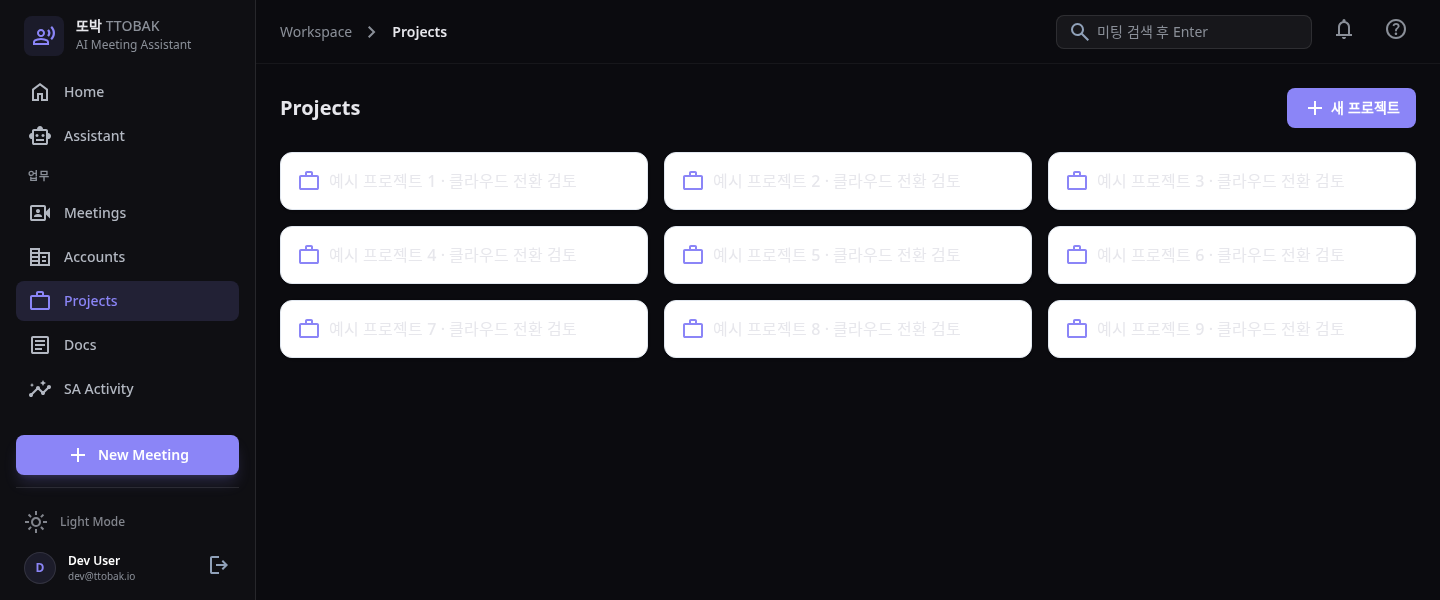
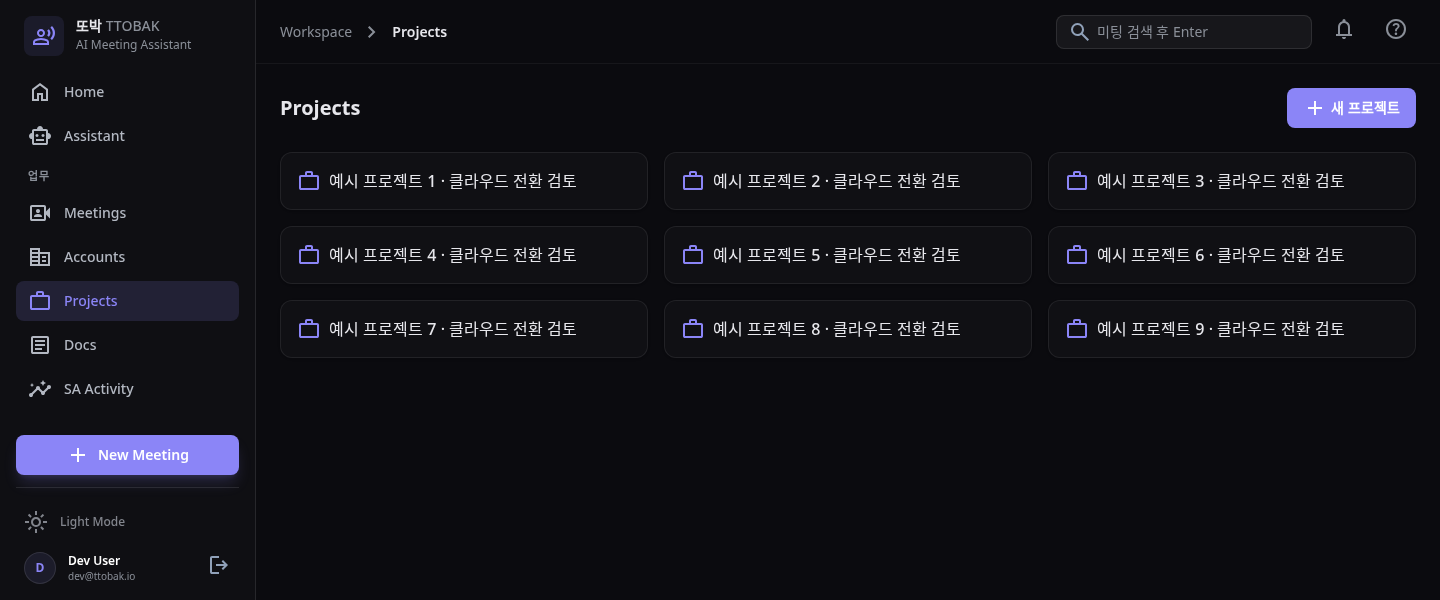
fix(ui): restore readable dark surfaces during design review

Changed region(s): [[0.1875, 0.24, 1.0, 0.6]]

diff --git a/frontend/src/app/globals.css b/frontend/src/app/globals.css
@@ -183,6 +183,12 @@ body {
   border: 1px solid var(--border-subtle);
 }
 
+/* Register the compatibility surface so Tailwind also emits dark:glass-panel. */
+@utility glass-panel {
+  background: var(--surface-lowest);
+  border: 1px solid var(--border-subtle);
+}
+
 /* Legacy glow utilities — intentionally no-op (neon removed) */
 .glow-primary,
 .glow-accent,

diff --git a/docs/reviews/2026-11-11-workspace-design-review.md b/docs/reviews/2026-11-11-workspace-design-review.md
@@ -14,6 +14,11 @@ columns, with the administration table spanning them. Long document/news/researc
 prose retains a 76ch reading width; Assistant turns retain a 90ch content region.
 The desktop sidebar remains 256px wide, as in the reference.
 
+Visual inspection also found light text on white cards in dark mode. Registering
+the legacy `glass-panel` surface as a Tailwind utility now generates its `dark:`
+variant. Actual project/document card text has a measured 15.4:1 contrast ratio
+against the restored dark surface; this is not a whole-product contrast audit.
+
 Reference: the local `claude-code-usage-dashboard` repository, specifically
 `dashboard/web/src/App.jsx`, `components/Sidebar.jsx`, and `index.css`. Its
 window-filling main column and separate scrolling navigation informed these
@@ -83,8 +88,10 @@ the same-size before/after captures.
   overflow.
 - Reading surfaces: document, news article, and research detail at 390, 1440,
   and 3840px (9 checks), with no console errors or failed HTTP responses.
-- Dark/short windows: Home, Projects, Assistant, and Settings at the same three
-  widths and 600px height (12 checks), with no console errors or HTTP failures.
+- Final dark/short windows: nine working/reading routes at 390, 1440, and
+  3840px and 600px height (27 checks), with no console errors, HTTP failures, or
+  horizontal document overflow. Project/document card contrast also passed
+  separate computed-color checks.
 - Interaction checks: 15 passed, including typed input/focus, mobile menu opening,
   Escape/focus restoration, query-preserving research navigation, short-window
   guide access, recording upload navigation, adaptive cards, and settings table
@@ -94,7 +101,7 @@ the same-size before/after captures.
   external requests, or horizontal document overflow.
 - Comparison gallery: image loading, slider, surface selection, keyboard input,
   and overflow checked at 390, 768, 1440, and 3840px.
-- Final checks: all 771 frontend unit tests, production build, documentation
+- Final checks: all 776 frontend unit tests after main integration, production build, documentation
   checks, and 23 documentation tests passed. Lint has no errors and 15 existing
   warnings. Independent content quality and latest-HEAD PR review gate publication.
 

diff --git a/docs/DESIGN-SPEC.md b/docs/DESIGN-SPEC.md
@@ -22,6 +22,8 @@ alone. CSS tokens share names across themes and are exposed through `@theme inli
 Background-light/background-dark remain separate tokens. Material Symbols
 Outlined supply icons. Legacy glass/glow/neon class names remain compatibility
 hooks with flat/no-glow styling; their presence is not a request to restore neon.
+`glass-panel` is also registered as a Tailwind utility so its `dark:` variant
+uses the theme surface/border tokens instead of leaving white cards under light text.
 Typography and component dimensions come from CSS/layout components, not DESIGN.md.
 Body and headline utilities share an installed system font stack in both themes;
 their font choice must not depend on download timing or the browser font cache.
